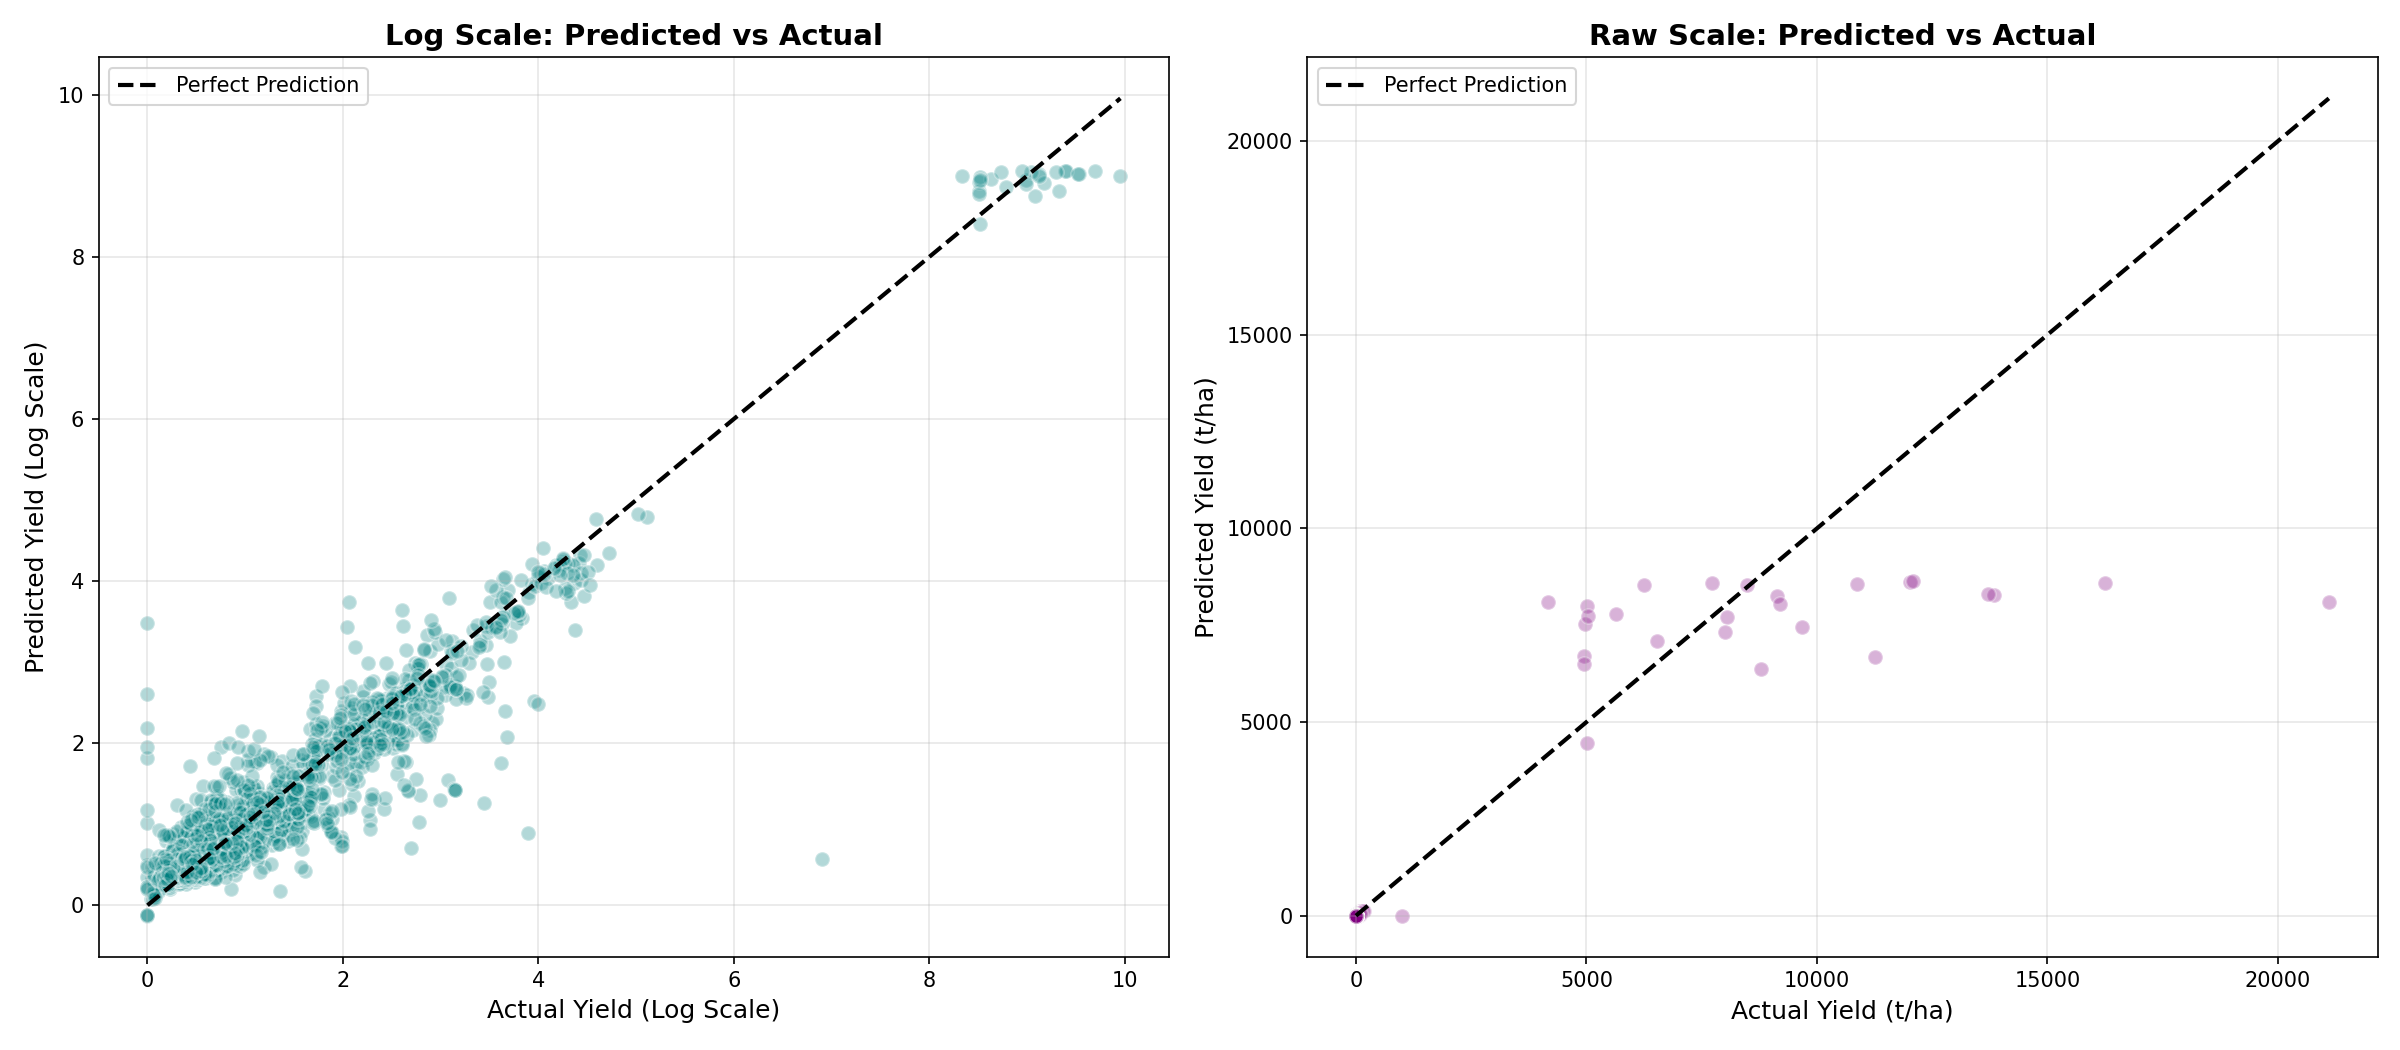
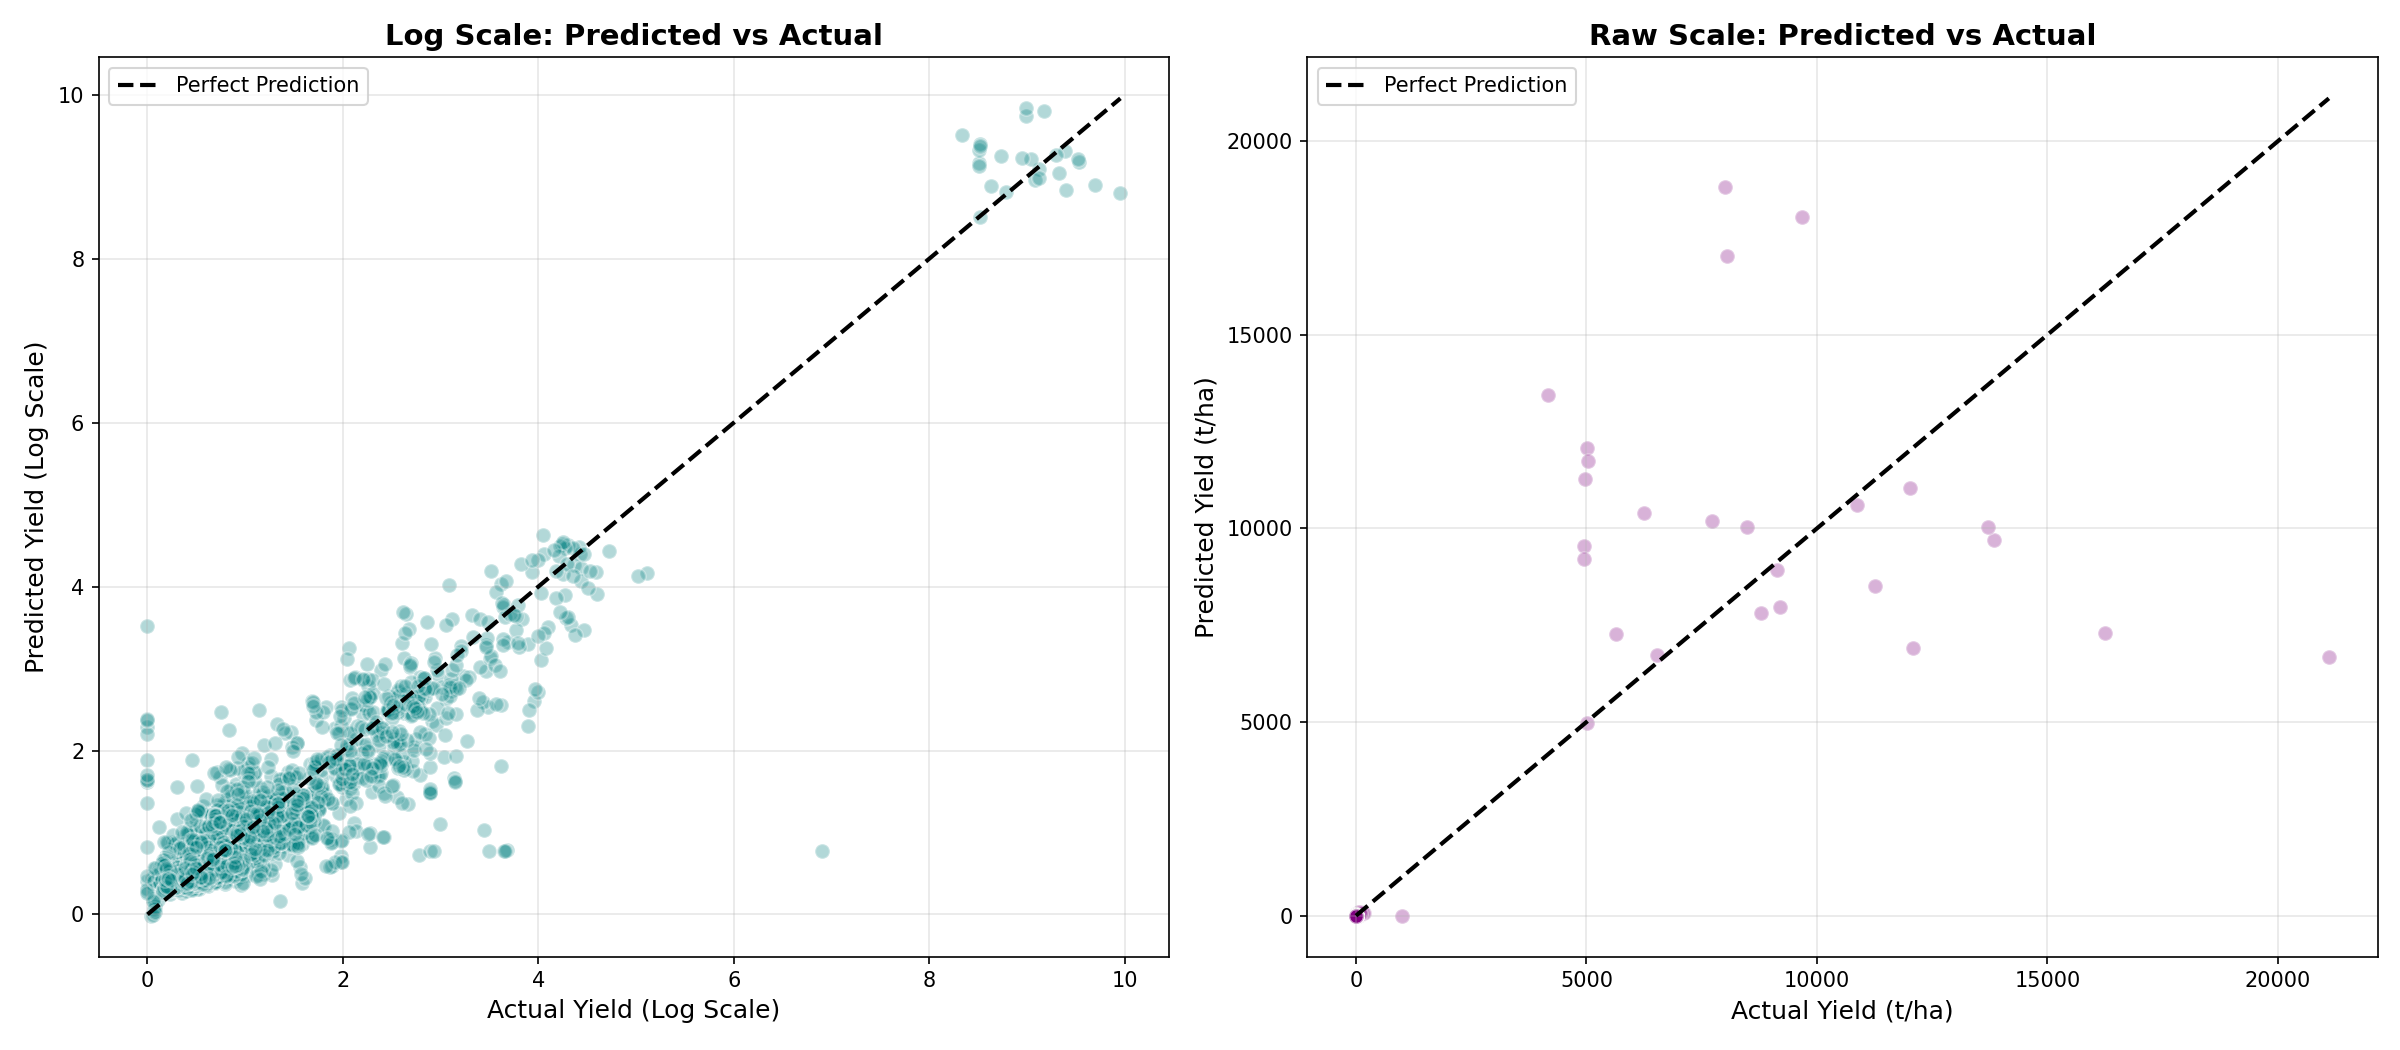
feat: add lightweight QNN evaluation notebook and reorganize project documentation structure

diff --git a/README.md b/README.md
@@ -119,15 +119,14 @@ flowchart TD
     end
 
     subgraph Modeling ["3. Model Training & Processing"]
-        D1 & D2 --> E1["Quantum Support Vector Machine (QSVM)"]
-        D1 & D2 --> E2["Quantum Neural Networks (QNN / PQC)"]
-        B1 --> F1["Classical CNN (PlantVillage Classification)"]
-        B2 --> F2["Classical Random Forest (Yield Regression)"]
+        D1 & D2 --> E1["Hybrid Quantum Neural Networks (QNN)"]
+        B1 --> F1["Classical CNN (Plant Disease Classification)"]
+        B2 --> F2["Classical Deep Neural Network (Yield Regression)"]
     end
 
     subgraph Execution ["4. Prediction & Output"]
-        E1 & F1 --> G1[Crop Disease Classification]
-        E2 & F2 --> G2[Crop Yield Prediction & Regressor]
+        F1 --> G1[Crop Disease Classification]
+        E1 & F2 --> G2[Crop Yield Prediction & Regressor]
     end
 
     subgraph Evaluation ["5. Performance Evaluation"]
@@ -153,13 +152,29 @@ flowchart TD
 ├── README.md                # Project documentation & abstract details
 ├── main.py                  # Project entry point and environment sanity check
 ├── exploration.ipynb        # Jupyter Notebook containing data exploratory cells
-├── crop_yield.csv           # Secondary Dataset: Multimodal historical environmental & yield records
-└── plantvillage dataset/    # Primary Dataset: Image library divided into 38 disease categories
-    ├── Apple___Apple_scab/
-    ├── Apple___Black_rot/
-    ├── Apple___healthy/
-    ├── Tomato___Bacterial_spot/
-    └── ... (38 subdirectories in total)
+│
+├── 🌿 Pipeline 1: Plant Disease Classification (Image Data)
+│   ├── plant_classifier.ipynb        # CNN Model Evaluation & Visualization
+│   ├── train_plant_classifier.py     # Classical CNN Training Script
+│   └── plantvillage dataset/         # Primary Dataset: Image library divided into 38 disease categories
+│       ├── Apple___Apple_scab/
+│       ├── Apple___Black_rot/
+│       ├── Apple___healthy/
+│       ├── Tomato___Bacterial_spot/
+│       └── ... (38 subdirectories in total)
+│
+└── 🌾 Pipeline 2: Crop Yield Prediction (Tabular Data)
+    ├── crop_yield.csv                # Secondary Dataset: Multimodal historical environmental & yield records
+    │
+    ├── Classical Models:
+    │   ├── crop_yield_nn.ipynb       # Classical Baseline Neural Network Evaluation
+    │   └── train_nn_crop_yield.py    # Classical Baseline Training Script
+    │
+    └── Quantum-Classical Hybrid Models:
+        ├── train_qnn_crop_yield.py           # Hybrid QNN Training (End-to-End & Feature Extraction)
+        ├── train_qnn_large_head_crop_yield.py# Large Classical Head Fine-tuning on Quantum Features
+        ├── qnn_crop_yield_small.ipynb        # Lightweight End-to-End Hybrid QNN Evaluation
+        └── qnn_crop_yield.ipynb              # End-to-End Hybrid QNN Evaluation with Large Head
 ```
 
 ---